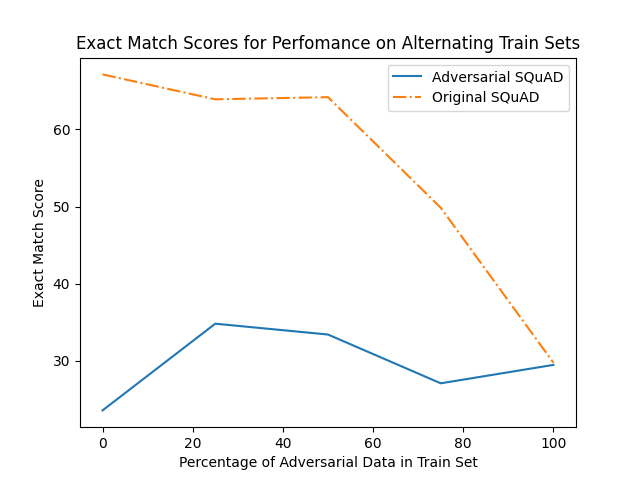
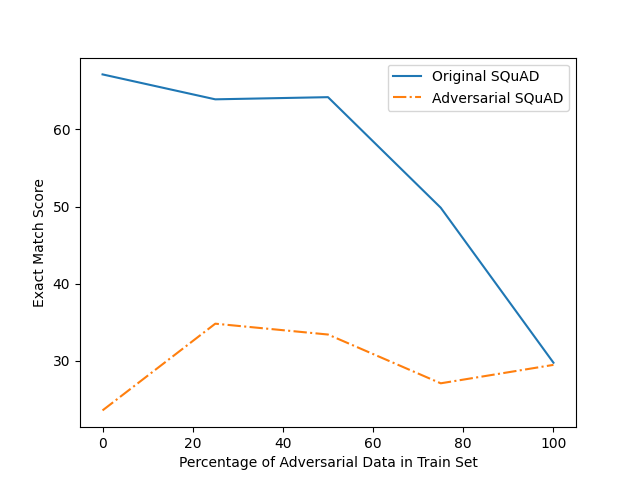
Plotted all results and formatted graphs

diff --git a/images/plot_graphs.py b/images/plot_graphs.py
@@ -8,18 +8,14 @@ from nltk.tokenize import word_tokenize
 from nltk.corpus import stopwords
 
 def plot_exact_matches():
-    # create data
+    # Create exact match scores plot
     percentages = [0, 25, 50, 75, 100]
-    exact_matches_adv = [23.59550561797753, 34.831460674157306, 33.42696629213483, 27.10674157303371, 29.49438202247191]
     exact_matches_orig = [67.13483146067416, 63.90449438202247, 64.18539325842697, 49.859550561797754, 29.775280898876403]
+    exact_matches_adv = [23.59550561797753, 34.831460674157306, 33.42696629213483, 27.10674157303371, 29.49438202247191]
     
     # plot lines
-    plt.plot(percentages, exact_matches_adv, label = "Adversarial SQuAD", linestyle="-")
-    plt.plot(percentages, exact_matches_orig, label = "Original SQuAD", linestyle="-.")
-    # plt.plot(x, np.sin(x), label = "curve 1", linestyle="-.")
-    # plt.plot(x, np.cos(x), label = "curve 2", linestyle=":")
-
-    plt.title("Exact Match Scores for Perfomance on Alternating Train Sets")
+    plt.plot(percentages, exact_matches_orig, label = "Original SQuAD", linestyle="-")
+    plt.plot(percentages, exact_matches_adv, label = "Adversarial SQuAD", linestyle="-.")
     plt.xlabel("Percentage of Adversarial Data in Train Set")
     plt.ylabel("Exact Match Score")
 
@@ -30,18 +26,19 @@ def plot_exact_matches():
 
 
 def plot_f1():
-    # Create f1 scores
+    # Create f1 scores plot
     percentages = [0, 25, 50, 75, 100]
-    f1_adv = [31.343909119121612, 45.24858266856346, 45.98682604299156, 40.14662669892348, 36.555009074424134]
+    
     f1_orig = [76.9494442977546, 74.40498751069204, 72.64932983884096, 60.45653201542083, 40.48994006516695]
+    f1_adv = [31.343909119121612, 45.24858266856346, 45.98682604299156, 40.14662669892348, 36.555009074424134]
     
     # plot lines
-    plt.plot(percentages, f1_adv, label = "Adversarial SQuAD", linestyle="-")
-    plt.plot(percentages, f1_orig, label = "Original SQuAD", linestyle="-.")
+    plt.plot(percentages, f1_orig, label = "Original SQuAD", linestyle="-")
+    plt.plot(percentages, f1_adv, label = "Adversarial SQuAD", linestyle="-.")
     # plt.plot(x, np.sin(x), label = "curve 1", linestyle="-.")
     # plt.plot(x, np.cos(x), label = "curve 2", linestyle=":")
 
-    plt.title("F1 Scores for Perfomance on Alternating Train Sets")
+    # plt.title("F1 Scores for Perfomance on Alternating Train Sets")
     plt.xlabel("Percentage of Adversarial Data in Train Set")
     plt.ylabel("F1 Score")
 
@@ -49,4 +46,5 @@ def plot_f1():
     plt.show()
     plt.savefig('f1.png')
 
-plot_f1()
+plot_exact_matches()
+# plot_f1()

diff --git a/data/par_reshuffle.py b/data/par_reshuffle.py
@@ -1,0 +1,37 @@
+import json
+import pandas as pd
+import random
+
+
+def make_adv_trainsets(adv_file,output_file,num_ex):
+    adv_data = pd.read_json(adv_file,lines=True)
+    new_df = pd.DataFrame(columns=adv_data.columns)
+    num_rows = len(adv_data)
+    samples = random.sample(list(range(num_rows)),num_ex)
+    for sample in samples:
+        data = adv_data.iloc[sample]
+        # separate out the adversarial sentence from the original context
+        context = data['context']
+        if 'turk' not in data['id']:
+            new_df = new_df.append(data,ignore_index=True)
+            continue
+        adv_sent_idx = context.strip().rindex('. ')+1
+        adv_sent = context[adv_sent_idx:]
+        og_context = context[:adv_sent_idx]
+        sent_ends = [i for i in range(len(og_context)) if og_context[i] == '.']
+        # move the adversarial sentence to a random sentence position
+        # this is the paragraph reshuffling to avoid the model ignoring the adversarial sentence / always ignoring the last sentence
+        new_idx = random.choice(sent_ends) + 1
+        answer_idx = data['answers']['answer_start']
+        old_answers = []
+        for i in range(len(answer_idx)):
+            old_answers.append(answer_idx[i])
+            if answer_idx[i] > new_idx:
+                answer_idx[i] += len(adv_sent)
+        new_context = og_context[:new_idx] + adv_sent + og_context[new_idx:]
+        data['context'] = new_context
+        new_df = new_df.append(data,ignore_index=True)
+    with open(output_file,'w') as file:
+        for i in range(len(new_df)):
+            json.dump(new_df.iloc[i].to_dict(),file,separators=(',',':'))
+            file.write('\n')
